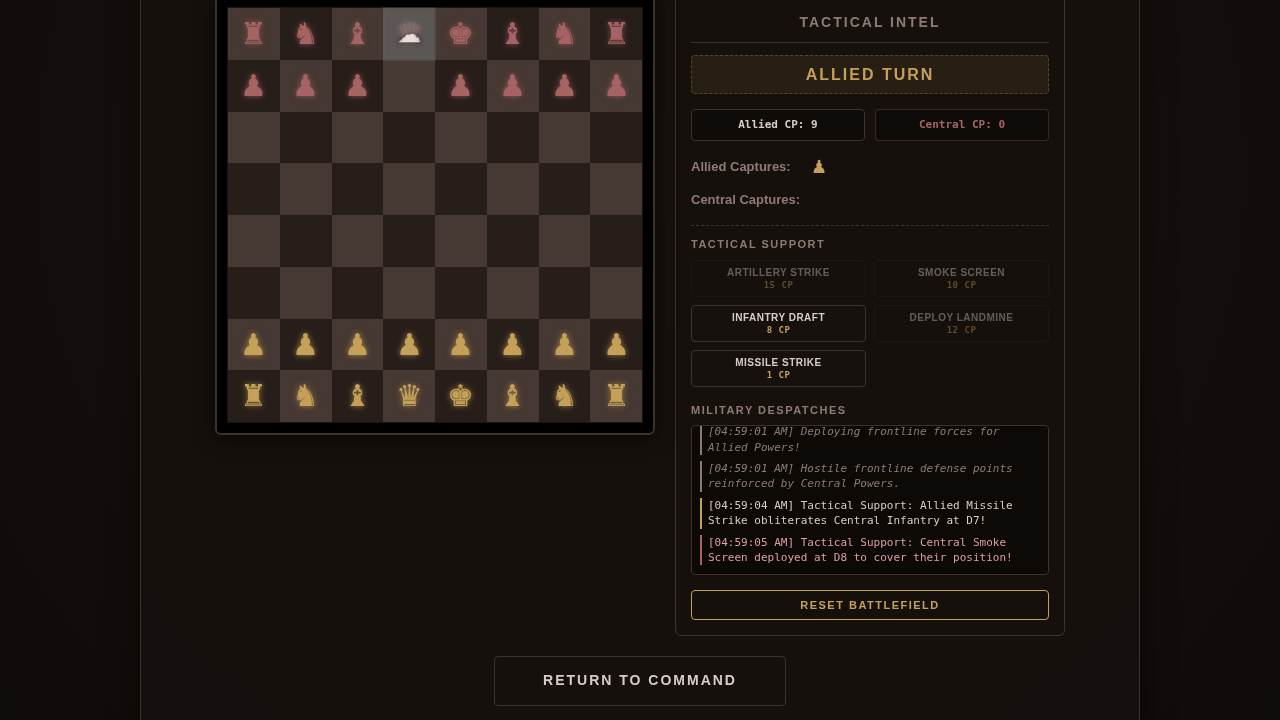
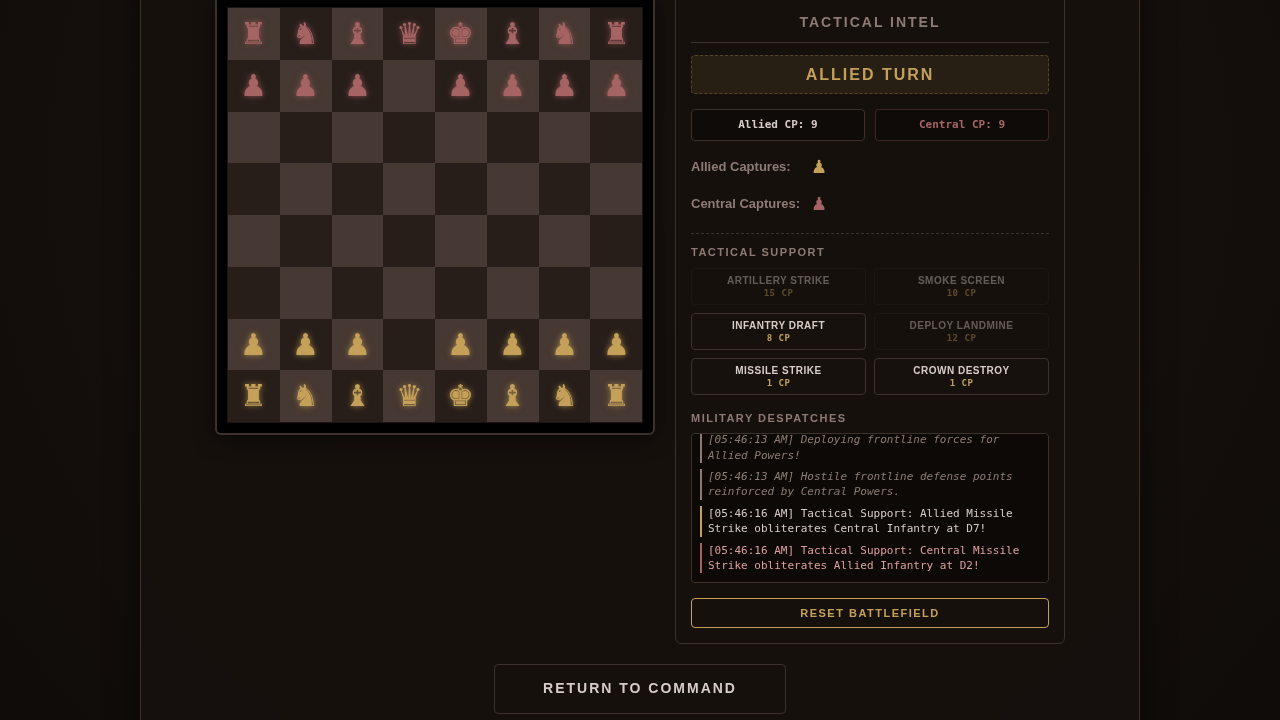
Add Crown Destroy power up to Trench Chess minigame
This commit implements a "Crown Destroy" tactical support power-up for 1 CP. It can target and destroy any enemy piece with a crown (Kaiser/Field Marshal or General Staff). It correctly triggers a win condition when the Kaiser/Field Marshal is destroyed, and is integrated with the Central Powers AI decision engine. Includes verification test and screenshots.

diff --git a/experiments/ww1/minigames.html b/experiments/ww1/minigames.html
@@ -983,6 +983,10 @@
                 <span>Missile Strike</span>
                 <span class="powerup-cost">1 CP</span>
               </button>
+              <button id="pw-crown-destroy" class="powerup-btn" onclick="selectPowerUp('crown-destroy')" title="Crown Destroy (1 CP): Eliminate any enemy piece with a crown (Kaiser/Field Marshal or General Staff)">
+                <span>Crown Destroy</span>
+                <span class="powerup-cost">1 CP</span>
+              </button>
             </div>
 
             <div class="battle-log-title">Military Despatches</div>
@@ -2466,6 +2470,13 @@
         if (!piece || piece.toLowerCase() === 'k') return false;
         const isPieceWhite = piece === piece.toUpperCase();
         return isWhite !== isPieceWhite;
+      } else if (type === 'crown-destroy') {
+        // Can target any square with an enemy crowned piece: King ('k'/'K') or General Staff ('q'/'Q')
+        if (!piece) return false;
+        const lower = piece.toLowerCase();
+        if (lower !== 'k' && lower !== 'q') return false;
+        const isPieceWhite = piece === piece.toUpperCase();
+        return isWhite !== isPieceWhite;
       } else if (type === 'smoke') {
         // Can target any square with a piece
         return piece !== '';
@@ -2609,7 +2620,8 @@
         'smoke': 10,
         'infantry': 8,
         'landmine': 12,
-        'missile': 1
+        'missile': 1,
+        'crown-destroy': 1
       };
 
       Object.keys(powerups).forEach(type => {
@@ -2635,7 +2647,7 @@
       if (activePowerUp === type) {
         activePowerUp = null;
       } else {
-        const costs = { 'artillery': 15, 'smoke': 10, 'infantry': 8, 'landmine': 12, 'missile': 1 };
+        const costs = { 'artillery': 15, 'smoke': 10, 'infantry': 8, 'landmine': 12, 'missile': 1, 'crown-destroy': 1 };
         if (alliedCP >= costs[type]) {
           activePowerUp = type;
         } else {
@@ -2648,7 +2660,7 @@
     }
 
     function executePowerUp(type, r, c, isWhite) {
-      const costs = { 'artillery': 15, 'smoke': 10, 'infantry': 8, 'landmine': 12, 'missile': 1 };
+      const costs = { 'artillery': 15, 'smoke': 10, 'infantry': 8, 'landmine': 12, 'missile': 1, 'crown-destroy': 1 };
       const cost = costs[type];
 
       if (isWhite) {
@@ -2682,6 +2694,32 @@
         } else {
           chessCapturedWhite.push(targetPiece);
           addBattleLog(oLogClass, `Tactical Support: ${oTitle} Artillery bombardment obliterates ${pTitle} ${PIECE_NAMES[targetPiece]} at ${coords}!`);
+        }
+      } else if (type === 'crown-destroy') {
+        const targetPiece = chessBoardState[r][c];
+
+        // If the targeted crowned piece is the King, end the game!
+        if (targetPiece.toLowerCase() === 'k') {
+          chessGameEnded = true;
+        }
+
+        chessBoardState[r][c] = '';
+        playExplosionSound();
+        setTimeout(() => playExplosionSound(), 150);
+
+        if (isWhite) {
+          chessCapturedBlack.push(targetPiece);
+          addBattleLog(pLogClass, `Tactical Support: ${pTitle} Crown Destroy obliterates ${oTitle} ${PIECE_NAMES[targetPiece]} at ${coords}!`);
+        } else {
+          chessCapturedWhite.push(targetPiece);
+          addBattleLog(oLogClass, `Tactical Support: ${oTitle} Crown Destroy obliterates ${pTitle} ${PIECE_NAMES[targetPiece]} at ${coords}!`);
+        }
+
+        if (chessGameEnded) {
+          const winner = isWhite ? pTitle : oTitle;
+          addBattleLog("system", `DECISIVE VICTORY! The enemy HQ has been successfully neutralized via Crown Destroy. ${winner} win!`);
+          playTone(600, "sine", 0.2, 0.1);
+          setTimeout(() => playTone(800, "sine", 0.3, 0.1), 150);
         }
       } else if (type === 'missile') {
         const targetPiece = chessBoardState[r][c];
@@ -3412,6 +3450,25 @@
         if (targets.length > 0) {
           const randTarget = targets[Math.floor(Math.random() * targets.length)];
           executePowerUp('missile', randTarget.r, randTarget.c, false);
+          aiPowerUpUsed = true;
+        }
+      }
+
+      // 6. Offensively use Crown Destroy (Cost: 1 CP)
+      // Target any Allied piece with a crown with 25% probability if they have >= 1 CP
+      if (centralCP >= 1 && !aiPowerUpUsed && Math.random() < 0.25) {
+        let targets = [];
+        for (let r = 0; r < 8; r++) {
+          for (let c = 0; c < 8; c++) {
+            if (isPowerUpTargetValid('crown-destroy', r, c, false)) {
+              targets.push({ r: r, c: c });
+            }
+          }
+        }
+
+        if (targets.length > 0) {
+          const randTarget = targets[Math.floor(Math.random() * targets.length)];
+          executePowerUp('crown-destroy', randTarget.r, randTarget.c, false);
           aiPowerUpUsed = true;
         }
       }

diff --git a/experiments/verify_crown_destroy.py b/experiments/verify_crown_destroy.py
@@ -1,0 +1,87 @@
+import sys
+import os
+from playwright.sync_api import sync_playwright
+
+def run_verification(page):
+    print("Navigating to WW1 Arcade Minigames page...")
+    page.goto("http://localhost:3000/experiments/ww1/minigames.html")
+    page.wait_for_timeout(1000)
+
+    print("Switching tab to Trench Chess...")
+    page.get_by_role("button", name="Trench Chess").click(force=True)
+    page.wait_for_timeout(1000)
+
+    # Click on Allied Powers on the Faction Selection Canvas to start the chess game
+    print("Selecting Faction 'Allied Powers' from Selection Canvas...")
+    page.locator("#chessFactionCanvas").click(position={"x": 210, "y": 150})
+    page.wait_for_timeout(1000)
+
+    # Take an initial screenshot
+    page.screenshot(path="experiments/ww1/crown_destroy_initial.png")
+    print("Initial chess screenshot captured.")
+
+    # Locate the Crown Destroy button
+    btn_crown_destroy = page.locator("#pw-crown-destroy")
+    assert btn_crown_destroy.is_visible(), "Crown Destroy button should be visible"
+    print("Crown Destroy button is visible:", btn_crown_destroy.is_visible())
+    print("Crown Destroy button text:\n", btn_crown_destroy.inner_text())
+
+    # Get initial CP
+    initial_cp = int(page.locator("#alliedCPVal").inner_text().strip())
+    print(f"Initial Allied CP: {initial_cp}")
+    assert initial_cp == 10, f"Expected initial CP to be 10, got {initial_cp}"
+
+    # Click the Crown Destroy power-up button
+    print("Activating Crown Destroy power-up (1 CP)...")
+    btn_crown_destroy.click(force=True)
+    page.wait_for_timeout(1000)
+
+    # Screenshot with Crown Destroy active
+    page.screenshot(path="experiments/ww1/crown_destroy_selected.png")
+    print("Crown Destroy selected screenshot captured.")
+
+    # Locate a target square with an enemy crowned piece (e.g. row 0, col 3 -> General Staff 'q')
+    target_square = page.locator(".chess-square[data-row='0'][data-col='3']")
+
+    # Confirm that the target square has a piece in it before the strike
+    has_piece_before = target_square.locator(".chess-piece").count() > 0
+    assert has_piece_before, "Target square (row 0, col 3) should have an enemy crowned piece before the strike"
+
+    print("Targeting square (row 0, col 3) to execute Crown Destroy...")
+    target_square.click(force=True)
+    page.wait_for_timeout(2000) # Wait for execution & AI response
+
+    # Confirm that the piece is eliminated
+    has_piece_after = target_square.locator(".chess-piece").count() > 0
+    assert not has_piece_after, "Target square should be empty after Crown Destroy"
+    print("Target piece successfully eliminated!")
+
+    # Verify battle log
+    battle_log = page.locator("#battleLog").inner_text()
+    print("--- Battle Log Output ---")
+    print(battle_log)
+    print("-------------------------")
+
+    assert "Crown Destroy obliterates" in battle_log, "Battle log should record the crown destroy"
+
+    # Take screenshot of the result
+    page.screenshot(path="experiments/ww1/crown_destroy_executed.png")
+    print("Crown Destroy executed screenshot captured successfully.")
+
+if __name__ == "__main__":
+    with sync_playwright() as p:
+        print("Launching headless Chromium...")
+        browser = p.chromium.launch(headless=True)
+        context = browser.new_context()
+        page = context.new_page()
+        try:
+            run_verification(page)
+        except Exception as e:
+            print("ERROR occurred:", e)
+            import traceback
+            traceback.print_exc()
+            sys.exit(1)
+        finally:
+            print("Closing browser...")
+            browser.close()
+    print("Verification passed successfully.")
